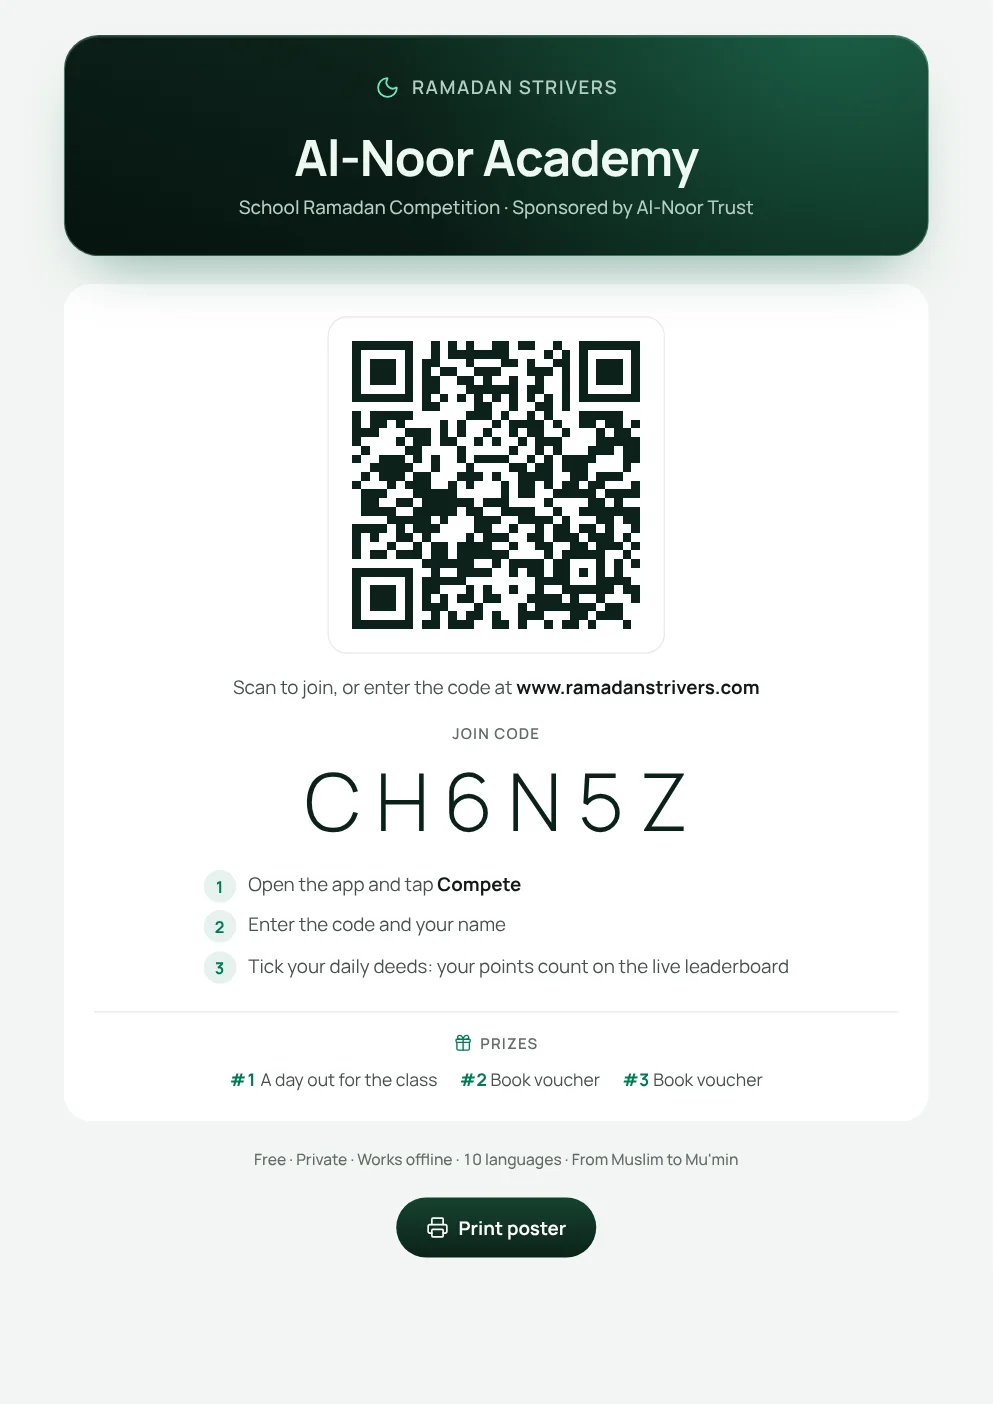
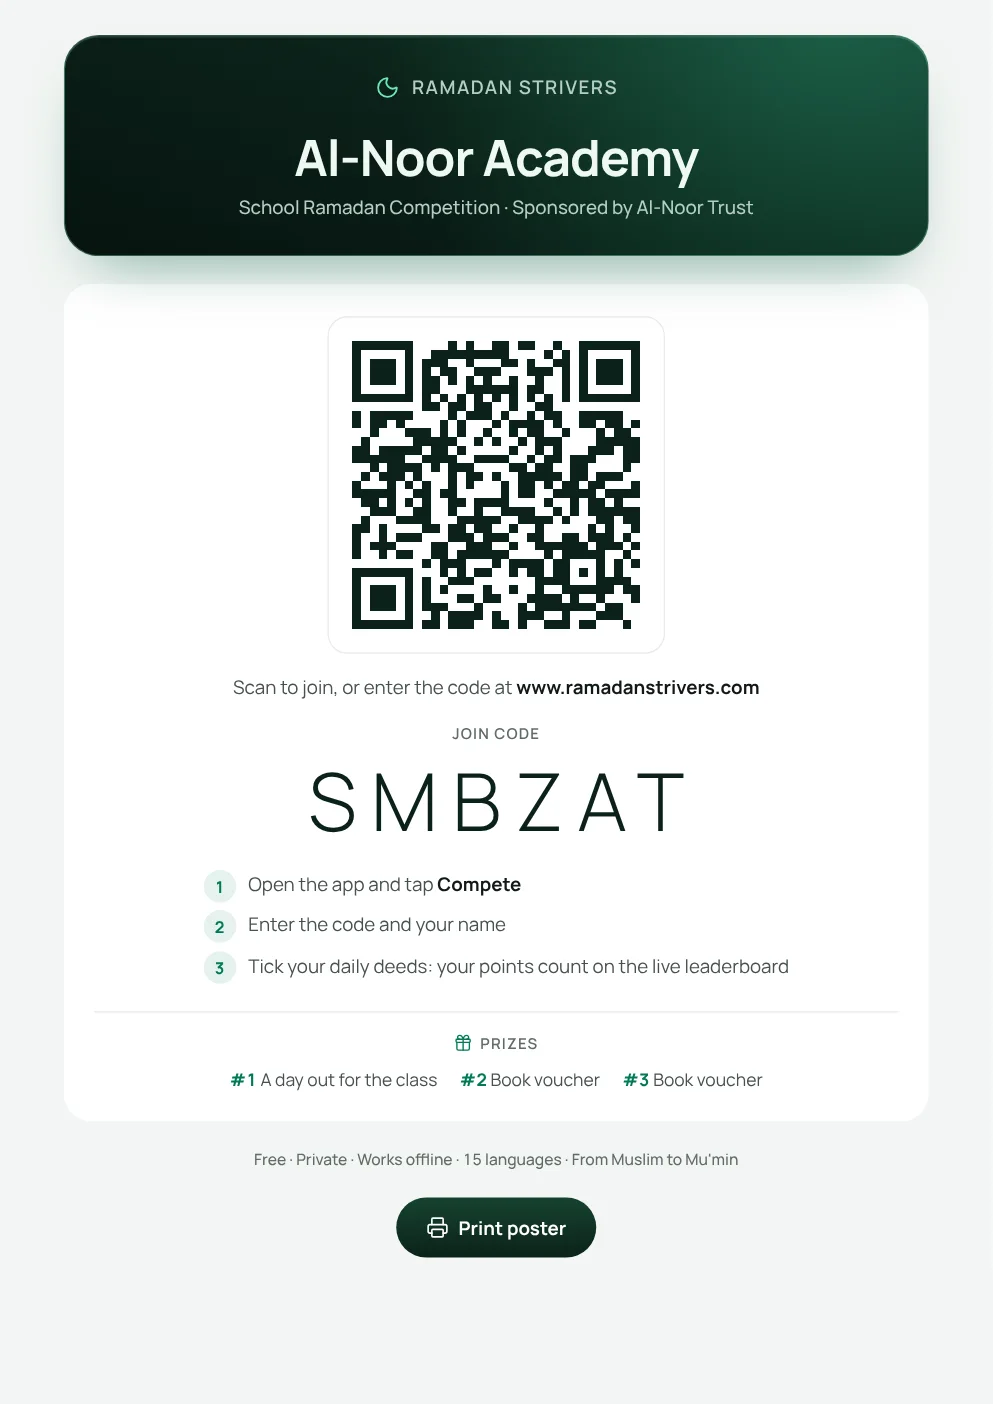
Product page: gallery of more screens, steadier tour, poster and README say 15 languages
The tour's phone keeps scrolling while the pointer rests on it (only the auto-advance waits),
the feature list's badges show how many match a search, and the printed QR poster and the
README no longer say 10 languages.

Claude-Session: https://claude.ai/code/session_01NK5Fw2fU79LqByGdNvRg5Q

diff --git a/product/index.html b/product/index.html
@@ -84,7 +84,7 @@ svg.i { width: 1em; height: 1em; fill: none; stroke: currentColor; stroke-width:
 .loop .reel img { animation: reelB var(--dur, 24s) cubic-bezier(.45, .05, .35, 1) 1.5s infinite alternate both; }
 .once .reel { animation: reelA var(--dur, 12s) cubic-bezier(.45, .05, .35, 1) .9s both; }
 .once .reel img { animation: reelB var(--dur, 12s) cubic-bezier(.45, .05, .35, 1) .9s both; }
-.paused .reel, .paused .reel img, .paused .bar i { animation-play-state: paused !important; }
+.paused .reel, .paused .reel img, .paused .bar i, .hold .bar i { animation-play-state: paused !important; }
 
 /* hero */
 .hero { position: relative; overflow: hidden; color: var(--on-dark); background:
@@ -1234,7 +1234,7 @@ footer { padding: 36px 0 60px; color: var(--ink-3); font-size: 14px; }
       var line = $('.bar i', tabs[cur]); if (line) { line.style.animation = 'none'; void line.offsetWidth; line.style.animation = ''; }
       if (cap) { cap.firstElementChild.textContent = $('b', tabs[cur]).textContent; cap.lastElementChild.textContent = $('.one', tabs[cur]).textContent; }
     }
-    function state() { root.classList.toggle('paused', !auto || userPaused || !visible || hover); }
+    function state() { root.classList.toggle('paused', userPaused || !visible); root.classList.toggle('hold', !auto || hover); }
     tabs.forEach(function (t, i) {
       t.addEventListener('click', function () { select(i, true); });
       t.addEventListener('keydown', function (e) { var d = e.key === 'ArrowDown' || e.key === 'ArrowRight' ? 1 : (e.key === 'ArrowUp' || e.key === 'ArrowLeft' ? -1 : 0); if (!d) return; e.preventDefault(); select(cur + d, true); tabs[cur].focus(); });
@@ -1283,6 +1283,7 @@ footer { padding: 36px 0 60px; color: var(--ink-3); font-size: 14px; }
       var inCat = active === 'all' || c.getAttribute('data-cat') === active, any = 0;
       $$('.fi', c).forEach(function (li) { var ok = inCat && (!word || li.textContent.toLowerCase().indexOf(word) >= 0); li.hidden = !ok; if (ok) any++; });
       c.hidden = !any; shown += any;
+      var all = $$('.fi', c).length, badge = $('.n', c); if (badge) badge.textContent = any === all || !any ? all + ' features' : any + ' of ' + all;
       if (any && (word || (active !== 'all' && inCat))) c.open = true;
     });
     if (none) none.hidden = shown > 0;

diff --git a/api/_routes/comp/code/poster.js b/api/_routes/comp/code/poster.js
@@ -68,6 +68,6 @@ body{margin:0;background:#F2F5F3;color:#101915;font-family:Manrope,ui-sans-serif
 <ol class="steps"><li>Open the app and tap <b>Compete</b></li><li>Enter the code and your name</li><li>Tick your daily deeds: your points count on the live leaderboard</li></ol>
 ${prizes.length ? '<div class="prizes"><span class="ttl">' + icon('gift', 15) + 'Prizes</span><ul>' + prizes.join('') + '</ul></div>' : ''}
 </section>
-<p class="foot">Free · Private · Works offline · 10 languages · From Muslim to Mu'min</p>
+<p class="foot">Free · Private · Works offline · 15 languages · From Muslim to Mu'min</p>
 <p class="np"><button type="button" onclick="print()">${icon('printer', 18)}Print poster</button></p></main></body></html>`, 'public, max-age=300');
 }, ['GET']);

diff --git a/README.md b/README.md
@@ -22,8 +22,8 @@ universities and mosques. Live at [www.ramadanstrivers.com](https://www.ramadans
   entries, export CSV and print certificates at Eid.
 - **Year-round:** Sunnah fasts (Mondays, Thursdays, the white days), the six days of Shawwal and the first ten days of
   Dhul Hijjah, using the Umm al-Qura Hijri calendar with a one-day moon-sighting adjustment.
-- **10 languages:** English, 中文, हिन्दी, Español, Français, العربية, বাংলা, Português, Русский, اردو, with right-to-left
-  layout for Arabic and Urdu. The religious content is translated too (see below).
+- **15 languages:** English, 中文, हिन्दी, Español, Français, العربية, বাংলা, Português, Русский, اردو, Bahasa Indonesia, Bahasa Melayu, Türkçe, فارسی, Kiswahili, with right-to-left
+  layout for Arabic, Urdu and Persian. The religious content is translated too (see below).
 - **Optional cloud features:** accounts with sync, web push reminders, share cards, AI explanations scoped to the
   cited texts, a WhatsApp bot. Everything degrades gracefully: without a server it is the same offline tracker.
 
